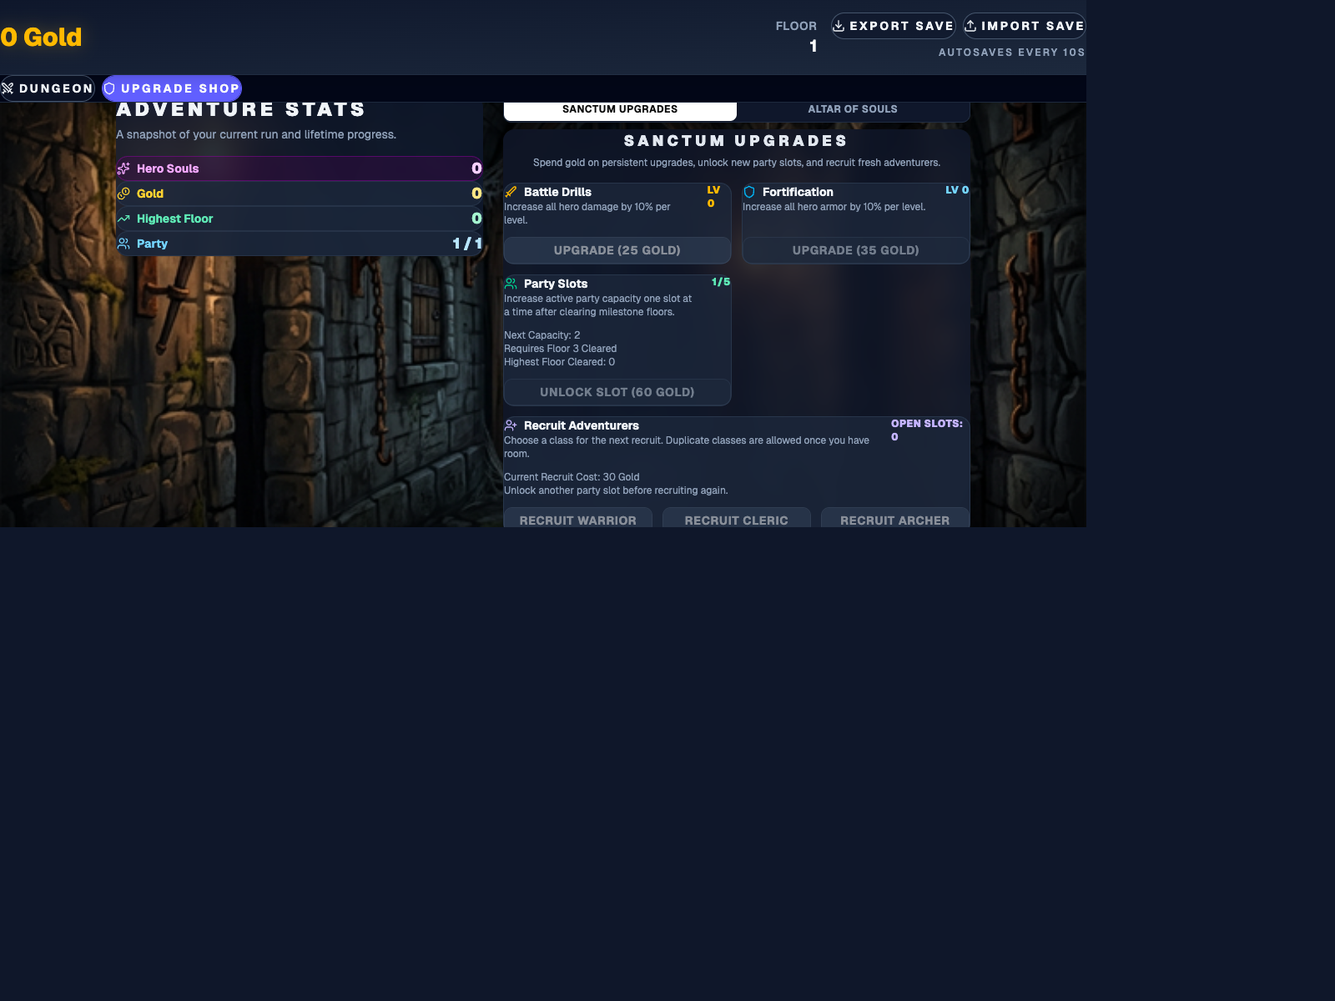
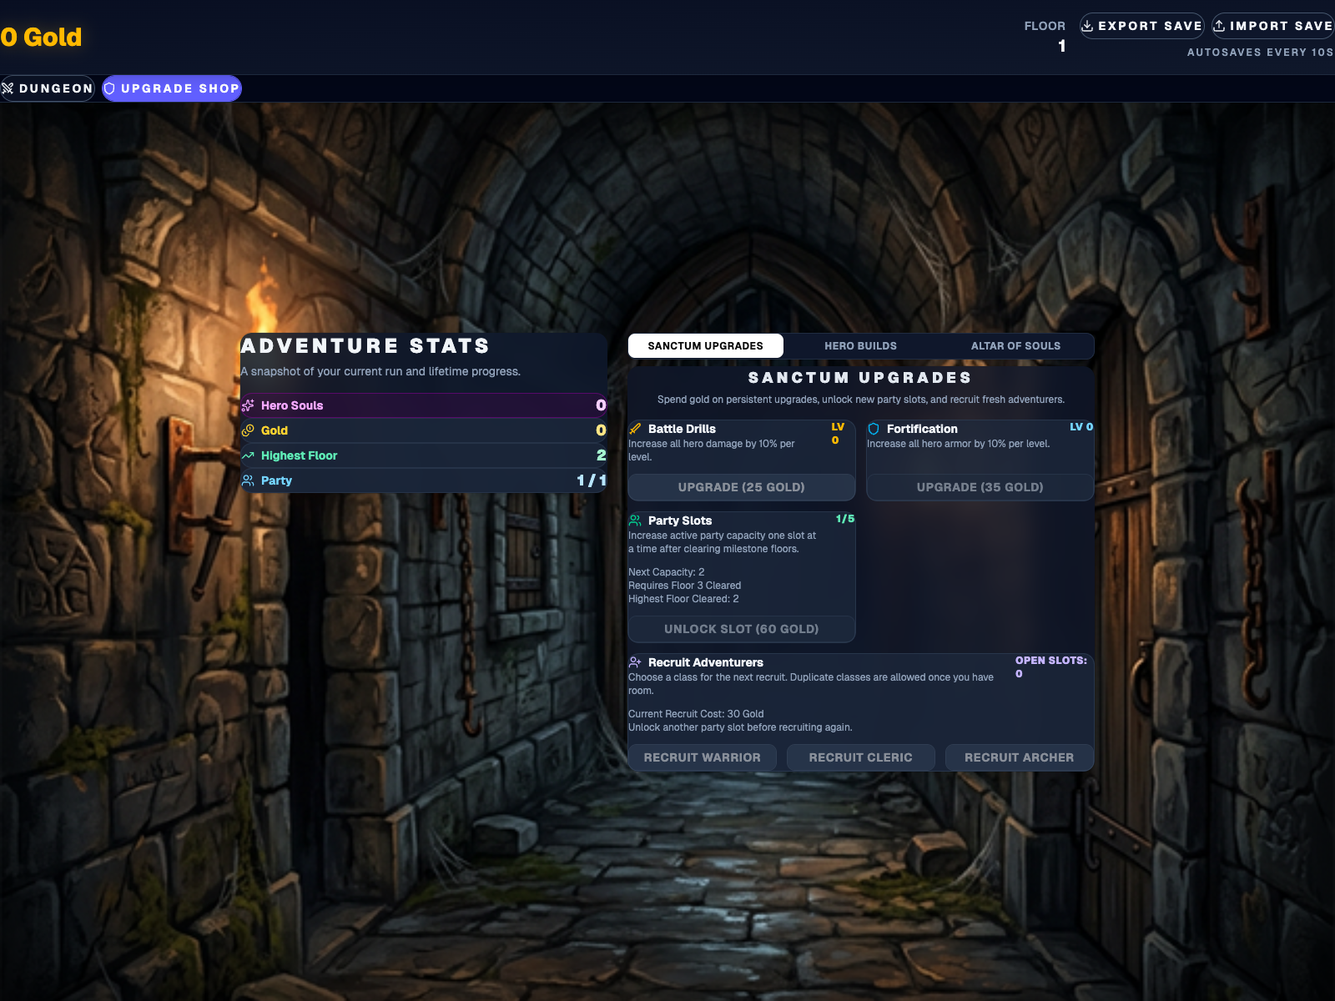
Surface hero builds in combat UI and docs

diff --git a/src/components/EntityRoster.tsx b/src/components/EntityRoster.tsx
@@ -2,9 +2,10 @@ import React from 'react';
 import { Skull } from 'lucide-react';
 
 import { getHeroClassTemplate } from '../game/classTemplates';
-import { getEnemyArchetypeLabel, getStatusEffectBadge, getStatusEffectName } from '../game/entity';
+import { getHeroBuildProfile } from '../game/heroBuilds';
+import { getCombatRatings, getEnemyArchetypeLabel, getStatusEffectBadge, getStatusEffectName } from '../game/entity';
 import type { Entity, StatusEffect } from '../game/entity';
-import type { CombatEvent } from '../game/store/types';
+import type { CombatEvent, EquipmentProgressionState, TalentProgressionState } from '../game/store/types';
 import { useGame, useGameStore } from '../game/store/gameStore';
 import { formatNumber } from '../utils/format';
 import { Card, CardContent, CardHeader, CardTitle } from '@/components/ui/card';
@@ -79,6 +80,27 @@ const resistanceStatsFor = (entity: Entity): TooltipStat[] => [
   { label: "Shadow", value: `${Math.round(entity.resistances.shadow * 100)}%` },
 ];
 
+const combatRatingStatsFor = (
+  entity: Entity,
+  buildState: {
+    talentProgression: TalentProgressionState,
+    equipmentProgression: EquipmentProgressionState,
+  },
+): TooltipStat[] => {
+  const ratings = getCombatRatings(entity, buildState);
+
+  return [
+    { label: 'Power', value: formatTooltipValue(ratings.power) },
+    { label: 'Spell', value: formatTooltipValue(ratings.spellPower) },
+    { label: 'Precision', value: formatTooltipValue(ratings.precision) },
+    { label: 'Haste', value: formatTooltipValue(ratings.haste) },
+    { label: 'Guard', value: formatTooltipValue(ratings.guard) },
+    { label: 'Resolve', value: formatTooltipValue(ratings.resolve) },
+    { label: 'Potency', value: formatTooltipValue(ratings.potency) },
+    { label: 'Crit', value: formatTooltipValue(ratings.crit) },
+  ];
+};
+
 const statusChipClassName = (statusEffect: Pick<StatusEffect, 'polarity'>) => {
   return statusEffect.polarity === 'buff'
     ? 'border-emerald-400/40 bg-emerald-500/15 text-emerald-100'
@@ -120,6 +142,9 @@ const combatEventClassName = (event: CombatEvent) => {
 export const EntityRoster: React.FC<Props> = ({ title, entities, alignRight, className }) => {
   const { actions } = useGame();
   const combatEvents = useGameStore((state) => state.combatEvents);
+  const talentProgression = useGameStore((state) => state.talentProgression);
+  const equipmentProgression = useGameStore((state) => state.equipmentProgression);
+  const buildState = { talentProgression, equipmentProgression };
 
   const sortedEntities = [...entities].sort((a, b) => Number(b.currentHp.gt(0)) - Number(a.currentHp.gt(0)));
 
@@ -131,7 +156,10 @@ export const EntityRoster: React.FC<Props> = ({ title, entities, alignRight, cla
         </CardTitle>
       </CardHeader>
       <CardContent className="flex-1 min-h-0 overflow-y-auto p-3 sm:p-4 flex flex-col gap-3 custom-scrollbar snap-y snap-proximity">
-        {sortedEntities.map(entity => (
+        {sortedEntities.map(entity => {
+          const buildProfile = getHeroBuildProfile(entity, buildState);
+
+          return (
           <Card key={entity.id} className={`shrink-0 snap-start overflow-visible border-slate-700/60 bg-slate-800/40 transition-all ${entity.currentHp.lte(0) ? 'opacity-50 grayscale' : 'hover:border-slate-500 shadow-md'}`}>
             <div className="p-3 space-y-2.5">
               <div className={`flex justify-between items-center ${alignRight ? 'flex-row-reverse' : ''}`}>
@@ -142,6 +170,21 @@ export const EntityRoster: React.FC<Props> = ({ title, entities, alignRight, cla
                       ? `${entity.class} • ${getEnemyArchetypeLabel(entity)}`
                       : entity.class}
                   </p>
+                  {!entity.isEnemy && buildProfile.passive ? (
+                    <p className="mt-1 text-[10px] text-slate-400">
+                      Passive: <span className="font-semibold text-slate-200">{buildProfile.passive.name}</span>
+                    </p>
+                  ) : null}
+                  {!entity.isEnemy ? (
+                    <div className="mt-1 flex flex-wrap gap-1">
+                      <span className="rounded-full border border-violet-400/25 bg-violet-500/10 px-1.5 py-0.5 text-[9px] font-black uppercase tracking-[0.18em] text-violet-100">
+                        {buildProfile.talents.length}T
+                      </span>
+                      <span className="rounded-full border border-sky-400/25 bg-sky-500/10 px-1.5 py-0.5 text-[9px] font-black uppercase tracking-[0.18em] text-sky-100">
+                        {buildProfile.equippedItems.length}G
+                      </span>
+                    </div>
+                  ) : null}
                   {entity.statusEffects.length > 0 && (
                     <div className="mt-1 flex flex-wrap gap-1">
                       {entity.statusEffects.map((statusEffect) => (
@@ -216,11 +259,22 @@ export const EntityRoster: React.FC<Props> = ({ title, entities, alignRight, cla
                 <div
                   id={`${entity.id}-stats-tooltip`}
                   role="tooltip"
-                  className="absolute z-30 pointer-events-none w-[min(18rem,calc(100%-0.5rem))] opacity-0 transition-[opacity,transform] duration-150 group-hover:translate-y-full group-hover:opacity-100 group-focus-within:translate-y-full group-focus-within:opacity-100 rounded-xl border border-slate-600/90 bg-slate-950/97 px-3 py-2.5 text-[10px] text-slate-200 shadow-2xl shadow-black/60 -bottom-1 left-1/2 -translate-x-1/2 translate-y-[calc(100%+0.25rem)]"
+                  className="absolute z-30 pointer-events-none w-[min(19rem,calc(100%-0.5rem))] opacity-0 transition-[opacity,transform] duration-150 group-hover:translate-y-full group-hover:opacity-100 group-focus-within:translate-y-full group-focus-within:opacity-100 rounded-xl border border-slate-600/90 bg-slate-950/97 px-3 py-2.5 text-[10px] text-slate-200 shadow-2xl shadow-black/60 -bottom-1 left-1/2 -translate-x-1/2 translate-y-[calc(100%+0.25rem)]"
                 >
                   <div className="space-y-2">
                     <div>
-                      <p className="text-[9px] font-black uppercase tracking-[0.28em] text-amber-200/85">Attributes</p>
+                      <p className="text-[9px] font-black uppercase tracking-[0.28em] text-violet-200/85">Combat Ratings</p>
+                      <dl className="mt-2 grid grid-cols-2 gap-x-3 gap-y-1">
+                        {combatRatingStatsFor(entity, buildState).map((stat) => (
+                          <div key={stat.label} className="flex items-center justify-between gap-2 rounded-md bg-slate-900/70 px-2 py-1">
+                            <dt className="text-slate-400">{stat.label}</dt>
+                            <dd className="font-mono font-bold text-slate-50">{stat.value}</dd>
+                          </div>
+                        ))}
+                      </dl>
+                    </div>
+                    <div>
+                      <p className="text-[9px] font-black uppercase tracking-[0.28em] text-amber-200/85">Derived Detail</p>
                       <dl className="mt-2 grid grid-cols-2 gap-x-3 gap-y-1">
                         {attributeStatsFor(entity).map((stat) => (
                           <div key={stat.label} className="flex items-center justify-between gap-2 rounded-md bg-slate-900/70 px-2 py-1">
@@ -230,6 +284,34 @@ export const EntityRoster: React.FC<Props> = ({ title, entities, alignRight, cla
                         ))}
                       </dl>
                     </div>
+                    {!entity.isEnemy && buildProfile.passive ? (
+                      <div className="border-t border-slate-800/80 pt-2">
+                        <p className="text-[9px] font-black uppercase tracking-[0.28em] text-emerald-200/80">Build</p>
+                        <div className="mt-2 space-y-1">
+                          <div className="rounded-md bg-slate-900/70 px-2 py-1">
+                            <p className="text-slate-400">Passive</p>
+                            <p className="font-bold text-slate-50">{buildProfile.passive.name}</p>
+                            <p className="mt-0.5 text-[9px] text-slate-400">{buildProfile.passive.description}</p>
+                          </div>
+                          <div className="rounded-md bg-slate-900/70 px-2 py-1">
+                            <p className="text-slate-400">Talents</p>
+                            <p className="font-bold text-slate-50">
+                              {buildProfile.talents.length > 0
+                                ? buildProfile.talents.map((talent) => talent.name).join(", ")
+                                : "No talents learned"}
+                            </p>
+                          </div>
+                          <div className="rounded-md bg-slate-900/70 px-2 py-1">
+                            <p className="text-slate-400">Equipment</p>
+                            <p className="font-bold text-slate-50">
+                              {buildProfile.equippedItems.length > 0
+                                ? buildProfile.equippedItems.map((item) => item.name).join(", ")
+                                : "No gear equipped"}
+                            </p>
+                          </div>
+                        </div>
+                      </div>
+                    ) : null}
                     <div className="border-t border-slate-800/80 pt-2">
                       <p className="text-[9px] font-black uppercase tracking-[0.28em] text-cyan-200/80">Resistances</p>
                       <dl className="mt-2 grid grid-cols-2 gap-x-3 gap-y-1">
@@ -317,7 +399,7 @@ export const EntityRoster: React.FC<Props> = ({ title, entities, alignRight, cla
               )}
             </div>
           </Card>
-        ))}
+        )})}
       </CardContent>
     </Card>
   );

diff --git a/src/components/EntityRoster.test.tsx b/src/components/EntityRoster.test.tsx
@@ -99,7 +99,9 @@ describe("EntityRoster", () => {
         expect(screen.getAllByText(/burn/i).length).toBeGreaterThan(0);
         expect(screen.getByText(/brn x2/i)).toBeInTheDocument();
         const tooltip = screen.getByRole("tooltip");
-        expect(tooltip).toHaveTextContent(/attributes/i);
+        expect(tooltip).toHaveTextContent(/combat ratings/i);
+        expect(tooltip).toHaveTextContent(/derived detail/i);
+        expect(tooltip).toHaveTextContent(/build/i);
         expect(tooltip).toHaveTextContent(/resistances/i);
         expect(tooltip).toHaveTextContent(/statuses/i);
         expect(tooltip).toHaveTextContent(/acc\s*66/i);
@@ -108,6 +110,7 @@ describe("EntityRoster", () => {
         expect(tooltip).toHaveTextContent(/apen\s*9/i);
         expect(tooltip).toHaveTextContent(/epen\s*13/i);
         expect(tooltip).toHaveTextContent(/ten\s*15\.3/i);
+        expect(tooltip).toHaveTextContent(/sanctified reserves/i);
         expect(tooltip).toHaveTextContent(/fire\s*20%/i);
         expect(tooltip).toHaveTextContent(/shadow\s*20%/i);
     });

diff --git a/src/App.integration.test.tsx b/src/App.integration.test.tsx
@@ -35,7 +35,8 @@ describe("App integration", () => {
         expect(screen.getByLabelText(/autoadvance/i)).toBeChecked();
         expect(screen.getByRole("button", { name: /previous floor/i })).toBeDisabled();
         expect(screen.getByRole("button", { name: /next floor/i })).toBeInTheDocument();
-        expect(screen.getAllByText(/^Attributes$/i)).toHaveLength(2);
+        expect(screen.getAllByText(/^Combat Ratings$/i)).toHaveLength(2);
+        expect(screen.getAllByText(/^Derived Detail$/i)).toHaveLength(2);
         expect(screen.getAllByText(/^VIT$/i)).toHaveLength(2);
         expect(screen.getAllByText(/^STR$/i)).toHaveLength(2);
         expect(screen.getAllByText(/^DEX$/i)).toHaveLength(2);

diff --git a/docs/ARCHITECTURE/gamedecisions/009-differentiation-mvp-talents-equipment-and-build-surfacing.md b/docs/ARCHITECTURE/gamedecisions/009-differentiation-mvp-talents-equipment-and-build-surfacing.md
@@ -1,0 +1,112 @@
+# 009 - Differentiation MVP: Class Passives, Talents, Equipment, and Build Surfacing
+
+**Date:** 2026-03-15
+**Status:** Accepted
+
+## Context
+
+[007 - Layered Combat Model](007-layered-combat-model.md) established that long-term combat identity should come from layers above the five core attributes:
+
+> final combat stats = core attributes + class template + talents + equipment + temporary effects
+
+The codebase already reserved persistence space for `talentProgression` and `equipmentProgression`, but the runtime still lacked the first playable build-differentiation loop:
+
+* hero classes had baseline identity through templates, but no explicit always-on passive package
+* players could not spend level-earned build choices
+* equipment existed only as a placeholder save container
+* the dungeon roster tooltip did not yet surface the full combat-facing build story
+
+That left the layered model conceptually accepted but not yet playable.
+
+## Decision
+
+We ship a narrow differentiation MVP built around three connected rules:
+
+1. **Every hero class has an explicit always-on class passive**
+2. **Heroes gain a small number of talent picks instead of a large tree**
+3. **Heroes can equip up to four low-friction items from a stocked armory**
+
+These systems all feed the same shared hero-build layer before final combat stats are recalculated.
+
+### Class Passives
+
+Each shipped hero class now has a named passive package that is always active:
+
+* **Warrior - `Battle Rhythm`:** extra frontline `guard` / `power` plus bonus Rage on resolved attacks
+* **Cleric - `Sanctified Reserves`:** stronger `resolve` / `spellPower` plus improved Bless regeneration support
+* **Archer - `Keen Eye`:** stronger `precision` / `crit` plus extra crit pressure on burst shots
+
+These passives are intentionally compact. They are not a second class-template system; they are the first explicit build-facing hook layered on top of templates.
+
+### Talent MVP
+
+The talent system stays intentionally small:
+
+* each shipped class has **2** fixed talent choices
+* talents are permanent once learned in the current save
+* heroes earn talent points at **level 2** and **level 4**
+* talent points are stored per hero in `talentProgression.talentPointsByHeroId`
+* learned talents are stored per hero in `talentProgression.unlockedTalentIdsByHeroId`
+
+The current shipped talents stay focused on combat ratings and existing action packages:
+
+* **Warrior:** `Unyielding`, `Rampage`
+* **Cleric:** `Sunfire`, `Shepherd`
+* **Archer:** `Deadeye`, `Quickdraw`
+
+This is a build-pick MVP, not a branching tree, respec system, or long-form meta progression layer.
+
+### Equipment MVP
+
+Equipment also stays intentionally narrow:
+
+* every hero has **4** slots: `weapon`, `armor`, `charm`, `trinket`
+* the armory is stocked with a curated fixed inventory rather than random loot drops
+* weapons may be class-restricted; other slots are generally flexible
+* item effects primarily add targeted combat-rating bonuses, with a small number of action or resource nudges
+* one item can only be equipped by one hero at a time
+
+Equipment ownership is persisted in the existing `equipmentProgression` container:
+
+* `inventoryItemIds` stores which stocked item ids exist in the save
+* `equippedItemIdsByHeroId` stores each hero's equipped item ids
+
+For the MVP, inventory management is intentionally low-friction: players choose from a stable stocked catalog instead of farming, sorting, or selling drops.
+
+### Shared Build Layer
+
+Passives, talents, and equipment all feed a single build-profile helper before derived stats are recalculated.
+
+The current build layer can modify:
+
+* combat-rating bonuses (`power`, `spellPower`, `precision`, `haste`, `guard`, `resolve`, `potency`, `crit`)
+* special-attack cost or damage tuning on existing Warrior / Archer burst actions
+* Cleric heal / Bless support tuning
+* resource gain or max-resource nudges
+
+This keeps build differentiation aligned with the layered-combat direction instead of introducing a parallel stat stack.
+
+### UI Surfacing
+
+The MVP uses two complementary surfaces:
+
+* **Shop -> `Hero Builds` tab:** the interaction surface for learning talents and equipping gear
+* **Dungeon roster tooltip and card metadata:** the read surface for combat ratings, passive identity, learned talents, and equipped items
+
+The roster tooltip now exposes:
+
+* MVP combat ratings
+* existing derived combat detail (`ACC`, `EVA`, `PAR`, `APEN`, `EPEN`, `TEN`)
+* passive summary
+* learned talents
+* equipped items
+* resistances and statuses
+
+This keeps the build-management UI deliberate while preserving in-combat readability.
+
+## Consequences
+
+* **Easier:** the layered-combat model is now playable instead of only aspirational.
+* **Easier:** build identity lives in explicit definitions rather than scattered combat exceptions.
+* **Easier:** save-compatible progression roots that were added earlier now have meaningful gameplay ownership.
+* **Difficult:** later additions should extend this shared build layer instead of bypassing it with one-off combat branches or sprawling item systems.

diff --git a/docs/ARCHITECTURE/gamedecisions/003-combat-and-atb.md b/docs/ARCHITECTURE/gamedecisions/003-combat-and-atb.md
@@ -151,7 +151,7 @@ To support higher-entity encounters (up to five party members and five enemies),
 * **Compact bars with preserved scanability:** HP, resource, and action-readiness bars remain visible at reduced card density to avoid panel collapse at larger party sizes.
 * **Persistent status chips:** active timed effects render as short uppercase chips such as `BRN x2`, `SLW`, `WKN`, `RGN`, `HEX`, or `BLD` so the player can read ongoing pressure and support at a glance without waiting for the combat log. Buff chips (`RGN`) render in emerald green; debuff chips (`BRN`, `SLW`, `WKN`, `HEX`, `BLD`) render in red so polarity is immediately readable even when buffs and debuffs coexist on the same entity.
 * **Subtle role labels:** enemy roster cards and the encounter stage surface the current archetype in small uppercase labels so the player can read combat roles without adding a new panel or badge-heavy layout.
-* **On-demand derived detail:** secondary stat details (VIT/STR/DEX/INT/WIS) plus combat-facing ratings (`ACC`, `EVA`, `PAR`, `APEN`, `EPEN`, `TEN`), elemental resistances, and active statuses are available via portrait hover/focus tooltip rather than being permanently rendered in every card.
+* **On-demand build and derived detail:** the roster hover/focus tooltip now carries the MVP combat ratings (`power`, `spellPower`, `precision`, `haste`, `guard`, `resolve`, `potency`, `crit`), the existing combat-facing derived detail (`ACC`, `EVA`, `PAR`, `APEN`, `EPEN`, `TEN`), plus passive, talent, equipment, resistance, and status summaries instead of permanently expanding every card.
 * **Scrollable roster columns:** party and enemy panels remain independently scrollable when total unit count exceeds available viewport height.
 * **Anchored combat log:** the middle-column log remains pinned to the bottom of the dungeon view while the encounter showcase keeps a stable footprint, so rapid kills or floor transitions do not cause the log panel to jump upward.
 * **Adjustable log depth:** players can still choose how much recent combat history to expose by expanding the log or dragging its resize handle upward for more visible entries.

diff --git a/docs/ARCHITECTURE/gamedecisions/007-layered-combat-model.md b/docs/ARCHITECTURE/gamedecisions/007-layered-combat-model.md
@@ -82,6 +82,10 @@ This keeps the combat model idle-readable and reduces runaway scaling risk.
 
 Implementation issue `#70` now derives combat-facing outputs through the MVP layered ratings documented here. Attributes still seed those ratings, but the runtime now also applies template or archetype bias packages before converting them into final hit, speed, crit, penetration, resistance, and status-facing numbers. Existing formulas documented in [002 - Attributes and Derived Stats](002-attributes-and-stats.md) and [003 - Combat Loop and ATB Mechanics](003-combat-and-atb.md) are the canonical live baseline.
 
+The first playable build follow-through now also exists:
+
+* [009 - Differentiation MVP: Class Passives, Talents, Equipment, and Build Surfacing](009-differentiation-mvp-talents-equipment-and-build-surfacing.md) adds explicit class passives, compact talent picks, four-slot equipment, and the current roster/UI surfacing for those layers
+
 ### Follow-up Issue Boundaries
 
 This decision intentionally sets boundaries for the rest of the foundation work:
@@ -90,6 +94,7 @@ This decision intentionally sets boundaries for the rest of the foundation work:
 * **`#69`** defines class-template data modeling for base stats, growth, resources, and action packages, implemented in [008 - Hero Class Templates, Growth Packages, and Resource Models](008-hero-class-templates.md)
 * **`#70`** refactors runtime derived stat sourcing and tunes coefficient-level formulas against the accepted model
 * **`#71`** adds explicit versioned save migrations so new progression/combat fields remain backward-compatible
+* **`#72` / `#73` / `#74`** provide the first playable build layer on top of that foundation through class passives, talent picks, equipment, and build surfacing, documented in [009 - Differentiation MVP: Class Passives, Talents, Equipment, and Build Surfacing](009-differentiation-mvp-talents-equipment-and-build-surfacing.md)
 
 ## Consequences
 

diff --git a/docs/ARCHITECTURE/conceptimages/README.md b/docs/ARCHITECTURE/conceptimages/README.md
@@ -19,8 +19,9 @@ These images were captured from the running app at a desktop viewport of `1600×
 - `003-shop-sanctum-upgrades.png` — upgrade shop, `Sanctum Upgrades` tab
 - `004-shop-altar-of-souls.png` — upgrade shop, `Altar of Souls` tab
 - `005-dungeon-events-view.png` — main dungeon gameplay view with the bottom-anchored `Events` panel visible, combat outcomes like `Dodge` surfaced inline, and the enemy archetype label still readable in the stage view
-- `006-dungeon-hover-tooltip.png` — dungeon gameplay view with the entity hover tooltip expanded, showing grouped attributes and elemental resistances without truncation
+- `006-dungeon-hover-tooltip.png` — dungeon gameplay view with the entity hover tooltip expanded, showing combat ratings, build summaries, derived combat detail, and resistances without truncation
 - `007-status-effects-view.png` — dungeon gameplay view with reusable status chips visible on roster cards, status-focused log entries, and tooltip status details expanded alongside existing combat stats.
+- `008-hero-builds-view.png` — shop gameplay view with the `Hero Builds` tab open, talent picks visible, and the stocked four-slot armory surfaced for each hero
 
 ## Naming convention
 
@@ -50,5 +51,6 @@ The current set covers the distinct top-level screens and tab states presently a
 - dungeon view with `Log`
 - dungeon view with `Events`
 - shop overview via `Sanctum Upgrades`
+- shop hero-build management via `Hero Builds`
 - shop prestige view via `Altar of Souls`
 - entity hover details in the dungeon roster

diff --git a/docs/ARCHITECTURE/gamedecisions/004-progression-and-scaling.md b/docs/ARCHITECTURE/gamedecisions/004-progression-and-scaling.md
@@ -48,6 +48,19 @@ Progression should now be understood in layers:
 
 This keeps progression extensible without creating a wall of new primary stats or requiring manual per-level stat allocation.
 
+### Current Differentiation MVP Baseline
+
+[009 - Differentiation MVP: Class Passives, Talents, Equipment, and Build Surfacing](009-differentiation-mvp-talents-equipment-and-build-surfacing.md) is the current live follow-through for those later progression layers.
+
+The current shipped baseline is intentionally compact:
+
+* heroes gain talent points at **level 2** and **level 4**
+* each class has **2** fixed talent picks rather than a full tree
+* heroes equip up to **4** items (`weapon`, `armor`, `charm`, `trinket`)
+* equipment comes from a stocked fixed armory rather than random drops
+
+This keeps the first build-differentiation pass readable and easy to tune while still making the layered model playable.
+
 ### Persistent Gold Upgrades
 
 Gold can be invested into persistent party-wide upgrades before a wipe occurs. The current implementation supports both stat upgrades and long-term party growth through the **Upgrade Shop**.

diff --git a/docs/ARCHITECTURE/README.md b/docs/ARCHITECTURE/README.md
@@ -21,6 +21,7 @@ We use a format inspired by Architecture Decision Records (ADRs) to document sig
 - [006 - Hero Retirement and Prestige Mechanics](gamedecisions/006-hero-retirement-and-prestige.md)
 - [007 - Layered Combat Model](gamedecisions/007-layered-combat-model.md)
 - [008 - Hero Class Templates, Growth Packages, and Resource Models](gamedecisions/008-hero-class-templates.md)
+- [009 - Differentiation MVP: Class Passives, Talents, Equipment, and Build Surfacing](gamedecisions/009-differentiation-mvp-talents-equipment-and-build-surfacing.md)
 
 ### Technical Decisions
 

diff --git a/docs/ARCHITECTURE/gamedecisions/008-hero-class-templates.md b/docs/ARCHITECTURE/gamedecisions/008-hero-class-templates.md
@@ -66,6 +66,7 @@ This decision is the implementation follow-through for issue `#69`.
 
 * `#69` centralizes current class identity into explicit templates
 * `#70` now uses those templates as one of the layered stat sources when combat ratings are recomputed
+* [009 - Differentiation MVP: Class Passives, Talents, Equipment, and Build Surfacing](009-differentiation-mvp-talents-equipment-and-build-surfacing.md) now layers explicit build-facing passives, talents, and equipment on top of these templates rather than replacing them
 
 ## Consequences
 
